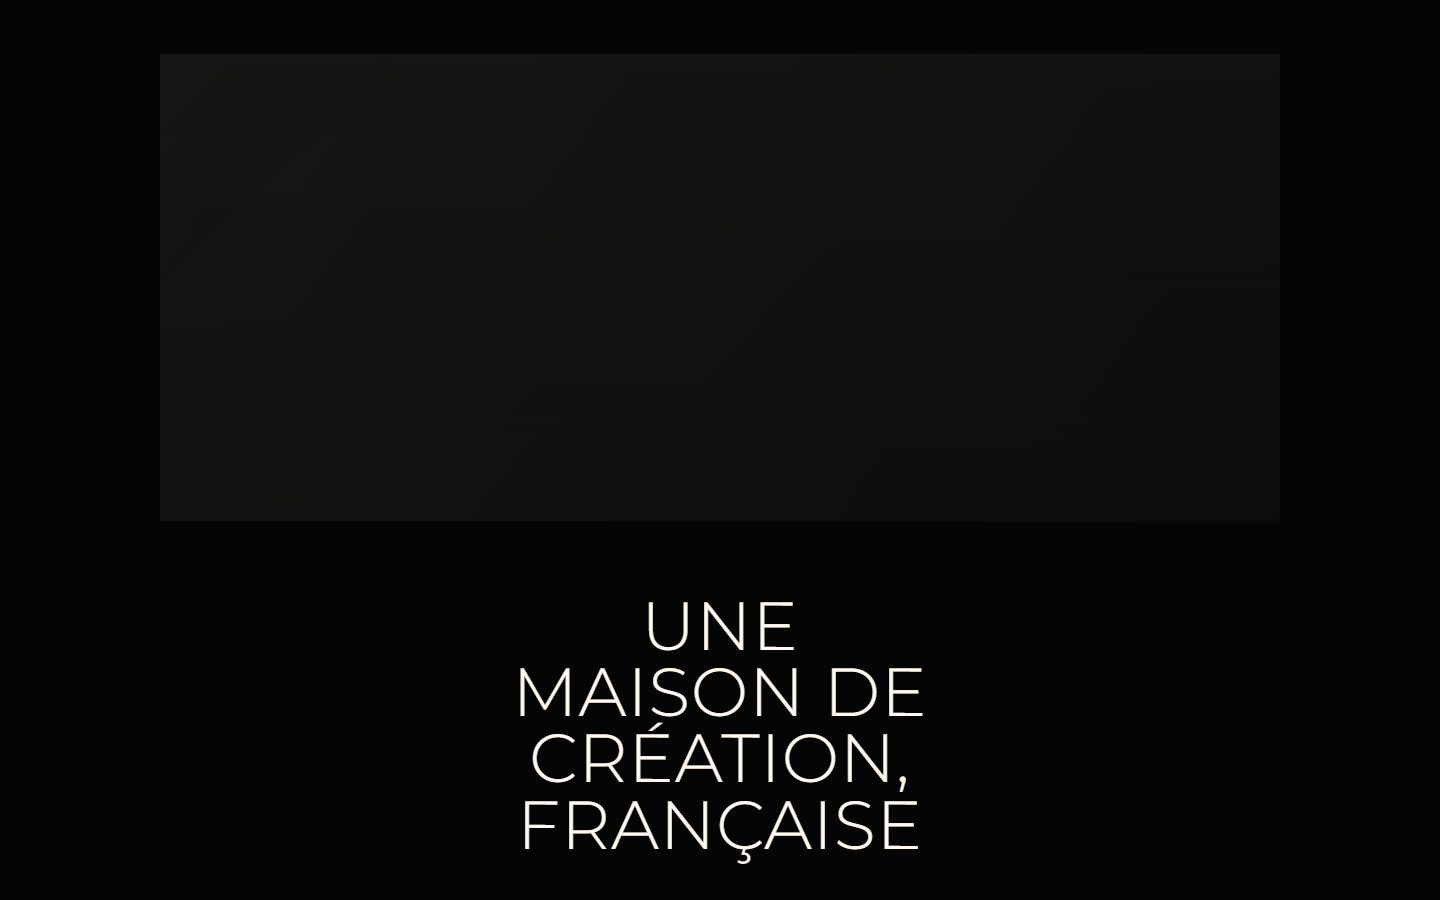
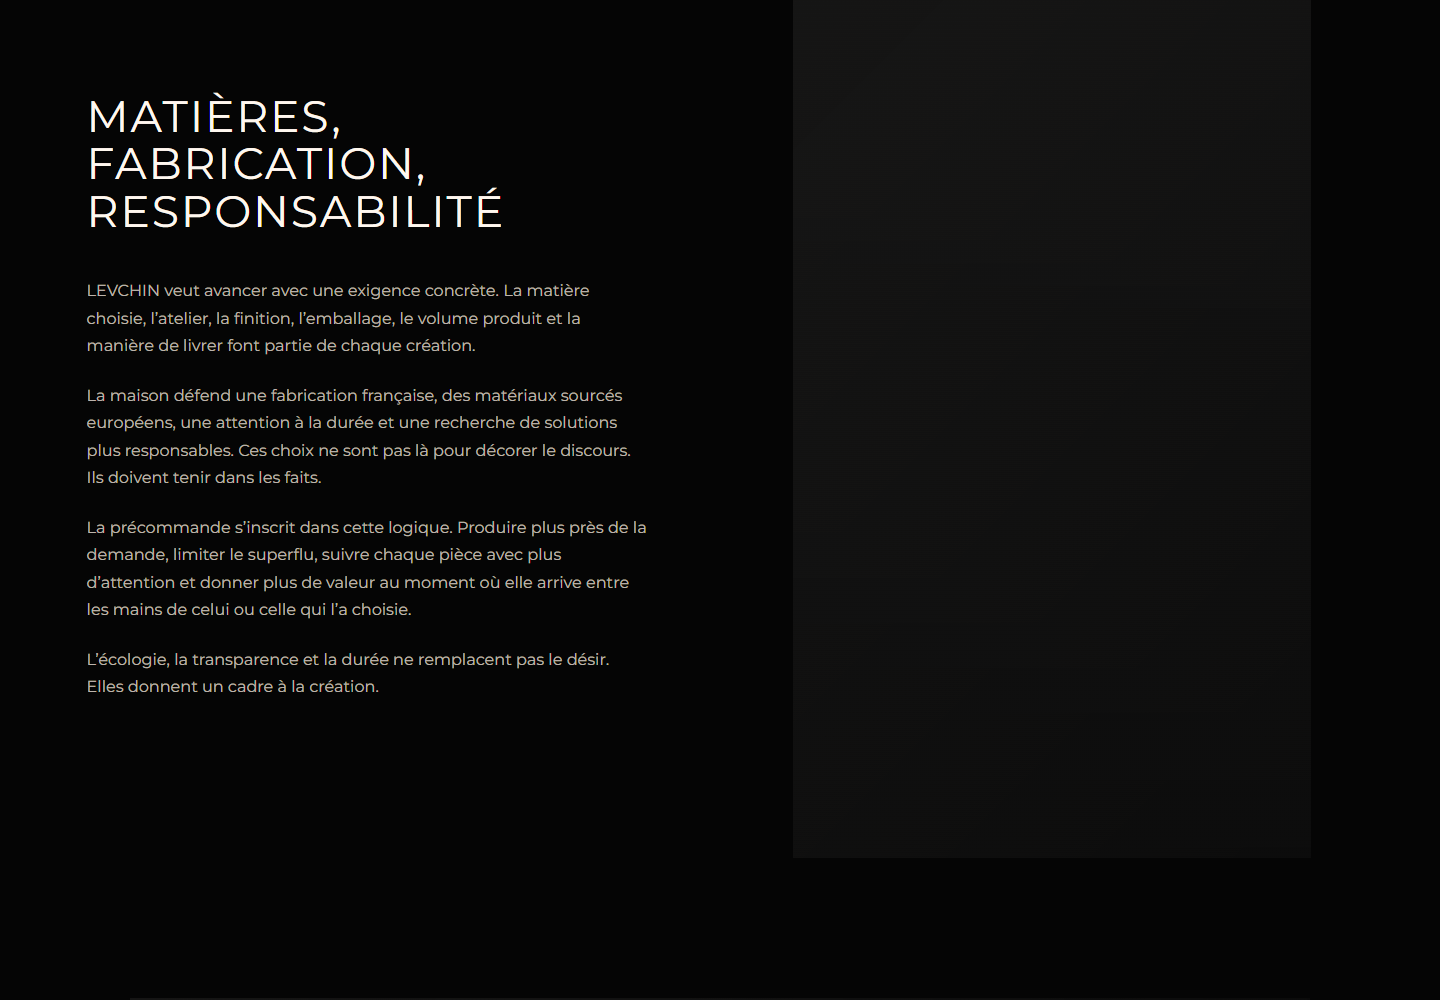
Correction finale du scroll snapping et de la mise en page Histoire.

diff --git a/styles.css b/styles.css
@@ -4500,7 +4500,7 @@ body.story-document .story-back-link {
 @media (max-width: 980px) {
   body.story-document .story-snap-overlay .story-overlay-copy {
     justify-self: end;
-    width: min(100%, 420px);
+    width: min(100%, 360px);
     margin-right: var(--story-gutter);
     padding: clamp(24px, 4vw, 38px);
   }
@@ -4623,5 +4623,143 @@ body.story-document .story-snap-lines h2 {
   body.story-document .story-snap-union .story-panel-copy,
   body.story-document .story-snap-lines .story-panel-copy {
     width: min(100%, 350px);
+  }
+}
+
+/* Story page: final editorial snap tuning */
+body.story-document .site-shell {
+  scroll-snap-type: y proximity;
+  scroll-padding-top: clamp(22px, 3vw, 38px);
+  scroll-behavior: smooth;
+  overscroll-behavior-y: auto;
+}
+
+body.story-document .story-snap {
+  scroll-snap-align: start;
+  scroll-snap-stop: normal;
+}
+
+body.story-document .site-footer {
+  scroll-snap-align: end;
+  scroll-snap-stop: normal;
+}
+
+body.story-document .story-snap h1,
+body.story-document .story-snap h2,
+body.story-document .story-snap-materials h2,
+body.story-document .story-snap-statement h2,
+body.story-document .story-snap-final h2 {
+  color: #fff8ef;
+  font-weight: 400;
+  letter-spacing: 0.045em;
+  line-height: 1.08;
+  text-transform: uppercase;
+  word-break: normal;
+  overflow-wrap: normal;
+  hyphens: none;
+}
+
+body.story-document .story-snap h2,
+body.story-document .story-snap-materials h2,
+body.story-document .story-snap-statement h2,
+body.story-document .story-snap-final h2 {
+  font-size: clamp(1.7rem, 3.05vw, 3.48rem);
+}
+
+body.story-document .story-snap-intro h1#story-title {
+  font-weight: 400;
+  font-size: clamp(0.68rem, 3.25vw, 2.45rem) !important;
+}
+
+body.story-document .story-snap-materials h2 {
+  width: min(100%, 17ch);
+  max-width: 17ch;
+  text-wrap: balance;
+}
+
+body.story-document .story-snap-overlay .story-overlay-copy {
+  background: transparent;
+  box-shadow: none;
+  backdrop-filter: none;
+}
+
+body.story-document .story-media-overlay::after {
+  background:
+    linear-gradient(90deg, rgba(5, 5, 5, 0.04), rgba(5, 5, 5, 0.14) 46%, rgba(5, 5, 5, 0.5)),
+    linear-gradient(180deg, rgba(5, 5, 5, 0.04), rgba(5, 5, 5, 0.22));
+}
+
+body.story-document .story-snap-statement {
+  grid-template-columns: 1fr;
+  justify-items: center;
+  align-content: center;
+  text-align: center;
+}
+
+body.story-document .story-statement-copy {
+  display: block;
+  width: min(100%, 860px);
+  margin-inline: auto;
+  text-align: center;
+}
+
+body.story-document .story-statement-copy h2 {
+  width: min(100%, 780px);
+  max-width: 780px;
+  margin-inline: auto;
+  text-align: center;
+  text-wrap: balance;
+}
+
+body.story-document .story-statement-copy .story-copy {
+  width: min(100%, 720px);
+  max-width: 720px;
+  margin: clamp(28px, 3vw, 44px) auto 0;
+  text-align: center;
+}
+
+body.story-document .story-back-link {
+  gap: 28px;
+}
+
+@media (max-width: 980px) {
+  body.story-document .story-snap h2,
+  body.story-document .story-snap-materials h2,
+  body.story-document .story-snap-statement h2,
+  body.story-document .story-snap-final h2 {
+    font-size: clamp(1.52rem, 5.4vw, 3rem);
+  }
+
+  body.story-document .story-snap-overlay .story-overlay-copy {
+    background: transparent;
+  }
+}
+
+@media (max-width: 560px) {
+  body.story-document .site-shell {
+    scroll-padding-top: 20px;
+  }
+
+  body.story-document .story-snap h2,
+  body.story-document .story-snap-materials h2,
+  body.story-document .story-snap-statement h2,
+  body.story-document .story-snap-final h2 {
+    font-size: clamp(1.28rem, 6.4vw, 2.1rem);
+    letter-spacing: 0.032em;
+    line-height: 1.1;
+  }
+
+  body.story-document .story-snap-intro h1#story-title {
+    font-size: clamp(0.48rem, 3.35vw, 0.9rem) !important;
+    font-weight: 400;
+  }
+
+  body.story-document .story-snap-materials h2 {
+    width: min(100%, 18ch);
+    max-width: 18ch;
+  }
+
+  body.story-document .story-back-link {
+    gap: 24px;
   }
 }

diff --git a/script.js b/script.js
@@ -59,132 +59,11 @@ function initStorySnap() {
     return;
   }
 
-  const getTargets = () => [
-    document.querySelector(".story-page .legal-header"),
-    ...document.querySelectorAll(".story-snap"),
-    document.querySelector("body.story-document .site-footer"),
-  ].filter(Boolean);
-
-  let snapTimer = 0;
-  let isSnapping = false;
-  let snapFrame = 0;
-
-  const getTargetTop = (target) => {
-    const shellRect = shell.getBoundingClientRect();
-    const targetRect = target.getBoundingClientRect();
-    return targetRect.top - shellRect.top + shell.scrollTop;
-  };
-
-  const getTargetSnapTop = (target) => {
-    const targetTop = getTargetTop(target);
-
-    if (target.matches(".site-footer")) {
-      return targetTop + target.getBoundingClientRect().height - shell.clientHeight;
-    }
-
-    return targetTop;
-  };
-
-  const easeInOutCubic = (progress) =>
-    progress < 0.5
-      ? 4 * progress * progress * progress
-      : 1 - Math.pow(-2 * progress + 2, 3) / 2;
-
-  const smoothSnapTo = (top) => {
-    window.cancelAnimationFrame(snapFrame);
-
-    const start = shell.scrollTop;
-    const distance = top - start;
-    const duration = Math.min(980, Math.max(620, Math.abs(distance) * 0.42));
-    const startedAt = performance.now();
-
-    const animate = (time) => {
-      const progress = Math.min((time - startedAt) / duration, 1);
-      shell.scrollTop = start + distance * easeInOutCubic(progress);
-
-      if (progress < 1) {
-        snapFrame = window.requestAnimationFrame(animate);
-        return;
-      }
-
-      isSnapping = false;
-    };
-
-    snapFrame = window.requestAnimationFrame(animate);
-  };
-
   if (!window.location.hash) {
     window.requestAnimationFrame(() => {
       shell.scrollTop = 0;
-      window.requestAnimationFrame(() => {
-        shell.scrollTop = 0;
-      });
     });
   }
-
-  const snapToNearestStoryPanel = () => {
-    if (isSnapping) {
-      return;
-    }
-
-    const targets = getTargets();
-
-    if (!targets.length) {
-      return;
-    }
-
-    const currentTop = shell.scrollTop;
-    const viewportHeight = shell.clientHeight;
-    const positions = targets.map((target) => ({
-      target,
-      top: Math.max(
-        0,
-        Math.min(getTargetSnapTop(target), shell.scrollHeight - shell.clientHeight)
-      ),
-      height: target.getBoundingClientRect().height,
-    }));
-    const lastSection = positions[positions.length - 1];
-
-    if (lastSection && currentTop > lastSection.top + viewportHeight * 0.42) {
-      return;
-    }
-
-    const active = positions.find(
-      (item) =>
-        currentTop > item.top + 28 &&
-        currentTop < item.top + item.height - viewportHeight - 28
-    );
-
-    if (active && active.height > viewportHeight + 80) {
-      return;
-    }
-
-    const nearest = positions.reduce((closest, item) =>
-      Math.abs(item.top - currentTop) < Math.abs(closest.top - currentTop)
-        ? item
-        : closest
-    );
-
-    if (Math.abs(nearest.top - currentTop) < 4) {
-      return;
-    }
-
-    isSnapping = true;
-    smoothSnapTo(nearest.top);
-  };
-
-  shell.addEventListener(
-    "scroll",
-    () => {
-      if (isSnapping) {
-        return;
-      }
-
-      window.clearTimeout(snapTimer);
-      snapTimer = window.setTimeout(snapToNearestStoryPanel, 280);
-    },
-    { passive: true }
-  );
 }
 
 initStorySnap();
